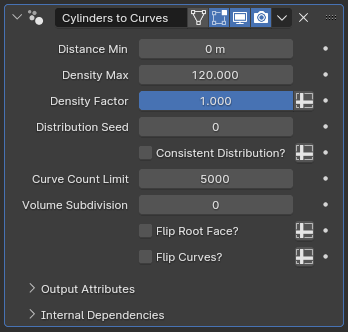
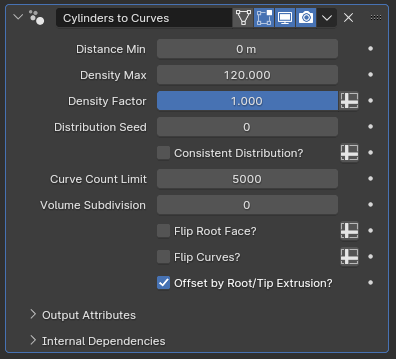
updates to modifiers

diff --git a/docs/mesh_generation/deformed_array_along_curves.md b/docs/mesh_generation/deformed_array_along_curves.md
@@ -14,6 +14,18 @@ This modifier serves as an alternate to Blender's built-in Array+Curve Deform mo
 ![Parameters](params/deformed_array_along_curves.PNG)
 
 * **Object:** The target object to be deformed onto the curves within this curve object
+* **Apply Transforms?:** While this parameter is enabled, the object scale and rotation of the target object will be applied before instancing it along the curves. If disabled, the instances will use a version of the object where its scale is set to 1 and its rotation is reset. 
+* **Use Center as Origin?:** While this parameter is disabled, instances are placed along the curve such that the object's origin will perfectly line up with the curve, assuming the **Translation** parameter is left untouched. This can cause the instances to be offset away from the curve, or offset along its length if the actual mesh of the target object is far away from the object's origin. Enabling this parameter calculates the geometric center of the target object and uses it as the reference point rather than the object's origin, negating the offsetting.
+
+!tip "Offsetting isn't necessarily bad!"
+    An intelligent but offset placement of the target object's origin can be useful when implementing certain effects. For example, keeping the object origin away from the mesh and adjusting the tilt of your curve can let you create spiral or helical shapes. Another example of potential benefit is that since all transformations are more severe the further they're applied from their reference point, offsetting the object origin can let you scale your instances in ways that are more practical for features like animal tails.
+
+* **Bounding Box Group:** If a vertex group from the **Object** is specified here, vertices that don't belong to this group will be deleted when calculating the bounding box for instancing. These vertices will still exist in the final geometry, but specifying a group here allows the instanced geometry to overlap, which can be useful in certain scenarios
+* **Group Cutoff:** When a group name is specified in **Bounding Box Group**, vertices with a weight below this factor will be deleted for the bounding box calculations.
+
+!!!warn "Root and Tip Extension"
+    Because of how the instancing works, if using **Bounding Box Group** or an object where the actual mesh is too far away from the object's origin, you may end up with instances that spill outside of the curve. In such cases, it may be a good idea to pair this modifier with [Random Trim Curves](../curve_manipulation/random_trim_curves.md) before making adjustments in Edit Mode to test variations of whatever it is you're working on.
+
 * **Translation X/Y/Z:** How much the target object will be translated in its own object space before being instanced
 * **Rotation:** How much the object will be rotated, and along which axes, before being instanced. The default rotation is set so that the target object's Y axis lines up with the curve tangent
 * **Scale X/Y/Z:** The scaling applied to the target object before instancing. 
@@ -21,6 +33,7 @@ This modifier serves as an alternate to Blender's built-in Array+Curve Deform mo
 
 !!!warn "Resolution still matters!"
     Because this modifier still uses the curve resolution to calculate the final position of instance vertices, you are still recommended to avoid using low resolutions on your curve objects, particularly when instancing higher poly-count models, in order to avoid the final result looking blocky.
+
 * **Radius Effect on X Scale:** How much the radius parameter of the curve will affect the scale of the instances along their X axis. If set to zero, radius will have no effect.
 * **Radius Effect on Y Scale:** Same as above, but for the Y axis. 
 

diff --git a/docs/workflows.md b/docs/workflows.md
@@ -1,4 +1,4 @@
-# Workflow Guides
+# Workflow Guides & Tips
 
 [TOC]
 
@@ -9,8 +9,24 @@ This page is dedicated to keeping an archive of workflow example videos.
 
 ---
 
+## Videos
+
+### Fluffy Tail
 <iframe width="560" height="315" src="https://www.youtube.com/embed/99hDLsXFNNI?si=uc3JR6xv5KWCRZym" title="YouTube video player" frameborder="0" allow="accelerometer; autoplay; clipboard-write; encrypted-media; gyroscope; picture-in-picture; web-share" allowfullscreen></iframe>
 
-
+### Feather Texture
 <iframe width="560" height="315" src="https://www.youtube.com/embed/6IliMA0HElQ?si=iwpjbVbXXw5-arv0" title="YouTube video player" frameborder="0" allow="accelerometer; autoplay; clipboard-write; encrypted-media; gyroscope; picture-in-picture; web-share" allowfullscreen></iframe>
 
+### Feathery Wing
+<iframe width="560" height="315" src="https://www.youtube.com/embed/2frL9zzbiNI?si=DBVEPvDsb6fOOvIT" title="YouTube video player" frameborder="0" allow="accelerometer; autoplay; clipboard-write; encrypted-media; gyroscope; picture-in-picture; web-share" allowfullscreen></iframe>
+
+### Scaly Tail & Horns
+<iframe width="560" height="315" src="https://www.youtube.com/embed/DnrXZK-IEhA?si=C6shjWJYv54MFIy3" title="YouTube video player" frameborder="0" allow="accelerometer; autoplay; clipboard-write; encrypted-media; gyroscope; picture-in-picture; web-share" allowfullscreen></iframe>
+
+---
+
+## Tips
+
+* Most of the modifiers in ScatterSuite utilize curves in one way or another. If you don't have much experience working with curves, it is highly recommended that you first familiarize yourself with them, particularly with Bézier curves
+
+* Modifiers affect the geometry in a sequential order, with the highest modifier in the list applying first and lower modifiers applying to the result of the prior modifier. This means that a change in the order of modifiers can have a large impact on the end result. For example, placing [Curve to Curves](curve_generation/curves_to_curves.md) first and [Align Curves to Surface](curve_manipulation/align_curve_to_surface.md) second will cause the subcurves generated by **Curve to Curves** to align with the surface, while the reverse order will only align the curve used for the generation of the subcurves

diff --git a/docs/misc/join_collection_as_object.md b/docs/misc/join_collection_as_object.md
@@ -1,0 +1,30 @@
+# Join Collection as Object
+
+[TOC]
+
+---
+
+## Overview
+This modifier combines multiple objects from the same collection into one object, allowing other modifiers that normally only accept one object input to rely on the geometry data of multiple objects, or to daisy-chain mesh-specific modifiers that normally aren't available for curve objects
+
+---
+
+## Parameters
+![Parameters](params/join_collection_as_object.PNG)
+
+* **Collection:** The collection that will be joined under this object
+* **Reset Children:** If enabled, transforms of the objects in the collection will be reset before they're joined, setting their position to the world origin, removing any rotation and setting their scale to be (1,1,1)
+* **Realize Instances:** If enabled, joined objects will be turned from instances into separate meshes. Disabling this may slightly improve performance if you're using this modifier to instance more than one object at once with another modifier, but 
+* **Recalculate Origin?:** While disabled, joined geometry will be placed wherever they were, then offset by the object origin of the object with this modifier, which can make positioning the geometry confusing. When this parameter is enabled, the geometric center of both all the objects in the targeted **Collection** as well as the geometric center of the mesh of this object will be calculated, and the instanced objects will be positioned such that their geometric center aligns with the geometric center of this object before this modifier
+
+!!!tip
+    If you're having trouble positioning the origin for this mesh, it can be useful to merge all the vertices into one single point. With only one vertex, the position of that vertex will be the new center.
+
+!!!tip
+    When **Realize Instances** is disabled, the calculated origin will be based on the object origins of the joined objects rather than geometric center.
+
+---
+
+## Tips & Use Cases
+
+* This modifier can be used to combine multiple procedurally modeled features to be instanced by a different modifier that normally only accepts a single object input, such as [Deformed Array Along Curves](../mesh_generation/deformed_array_along_curves.md).

diff --git a/docs/curve_manipulation/smoothen_curves.md b/docs/curve_manipulation/smoothen_curves.md
@@ -1,0 +1,24 @@
+# Smoothen Curves
+
+[TOC]
+
+---
+
+## Overview
+This modifier smooths out midpoints of curves based on their tangent deviation while not affecting their roots and tips
+
+
+---
+
+## Parameters
+![Parameters](params/smoothen_curves.PNG)
+
+* **Iterations:** How many times the smoothing algorithm will be applied to the curves in the object. This parameter can tank performance if set to a high value on an object with many curves
+* **Smoothing Exponent:** The strength of the smooting is more severe for points where the tangents of adjacent points create a narrower angle, and the effect is more subtle for wider angles. This parameter controls this blending, where values lower than one will make the modifier have a higher impact on wider angles as well, while values higher than one will reduce the effect on points with wider angles
+* **Smoothing Cutoff:** Points with tangent angles above this will not be affected by the smoothing algorithm at all. This parameter can be easier to understand and configure than **Smoothing Exponent**, with the added benefit that as these points are completely excluded from the smoothing process it can also have a significant impact in performance, improving calculation speeds for high iteration counts
+
+---
+
+## Tips & Use Cases
+
+* The smoothing effect of this modifier will also somewhat normalize the distance between curve points. If placed after a [Resample Curves](resample_curves.md) modifier with decimation parameters enabled, this can cause the shape defined by the curve to be significantly altered.

diff --git a/docs/curve_generation/cylinders_to_curves.md b/docs/curve_generation/cylinders_to_curves.md
@@ -33,6 +33,8 @@ This modifier converts cylinder primitives within a mesh object to a set of curv
 !!!tip "Effect of Faces on Curve Generation"
     While *Consistent Distribution?* is off, larger cylinders generate more curves. In cases where one flat face of a cylinder is a much bigger size than the other flat face, toggling *Flip Root Faces?* on or off can cause a significant change in curve count. For this reason, it is highly recommended that you set up all of your generative modifiers first and making sure the flat faces are oriented properly before you start making adjustments to the overall shape of the cylinders. Otherwise, you may need to rely on this toggle to fix orientation issues, which can drastically change the final curve distribution.
 
+* **Offset by Root/Tip Extrusion?:** While this parameter is disabled, the middle control points of the generated curves are placed on the n-gon generated by filling in the edge loops that connect the top and bottom faces of the cylinder. If it is enabled, these points will be further displaced along these n-gons' surface normals based on how much extrusion there is in the top and bottom faces of the cylinders. This can help create more intricate volumes using this modifier but can also cause the curves to have sudden turns and jagged corners if the shape of the top and bottom faces of the cylinders are vastly different in terms of their concavity
+
 ---
 
 ## Tips & Use Cases

diff --git a/docs/mesh_generation/bridge_curves_with_mesh.md b/docs/mesh_generation/bridge_curves_with_mesh.md
@@ -15,6 +15,8 @@ This modifier stretches an UV grid to follow the shape of curve objects, helping
 * **Count:** The amount of edge loops generated to bridge the curves with. When set to zero, uses the evaluated resolution of the longest curve within the object to determine the count. If set to zero, the modifier will use the resolution of the curve with most points within the curve object as the resolution of the grid.
 * **Material:** The material assigned to the generated surface
 * **UVMap Name:** The name the default UVMap of the surface will be saved under. By default, the X axis of the UV map is equal to the spline factor of the main curves the UV grid is stretched onto, while the Y axis is based on the index order of the curves the grid is stretched across, with the starting curve having a Y coordinate of 0 and the last curve having a Y coordinate of 1
+* **Closed Loop?:** If enabled, bridges the start and end of the generated grid with another row of faces. Might be useful if this modifier is used alongside [Bridge Curves with Mesh](../curve_generation/bridge_curves_with_curves.md), or with cyclic curves
+* **Flip Faces?:** Flips the normals of the generated grid. 
 
 ---
 

diff --git a/docs/general_tips.md b/docs/general_tips.md
@@ -3,6 +3,3 @@
 [TOC]
 
 
-* Most of the modifiers in ScatterSuite utilize curves in one way or another. If you don't have much experience working with curves, it is highly recommended that you first familiarize yourself with them, particularly with Bézier curves
-
-* Modifiers affect the geometry in a sequential order, with the highest modifier in the list applying first and lower modifiers applying to the result of the prior modifier. This means that a change in the order of modifiers can have a large impact on the end result. For example, placing [Curve to Curves](curve_generation/curves_to_curves.md) first and [Align Curves to Surface](curve_manipulation/align_curve_to_surface.md) second will cause the subcurves generated by **Curve to Curves** to align with the surface, while the reverse order will only align the curve used for the generation of the subcurves
